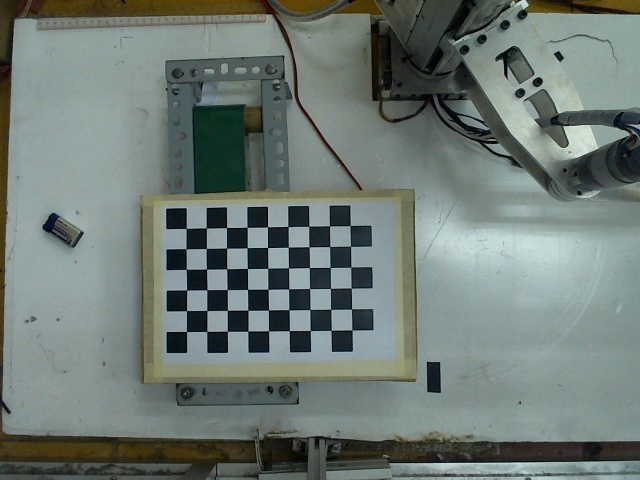
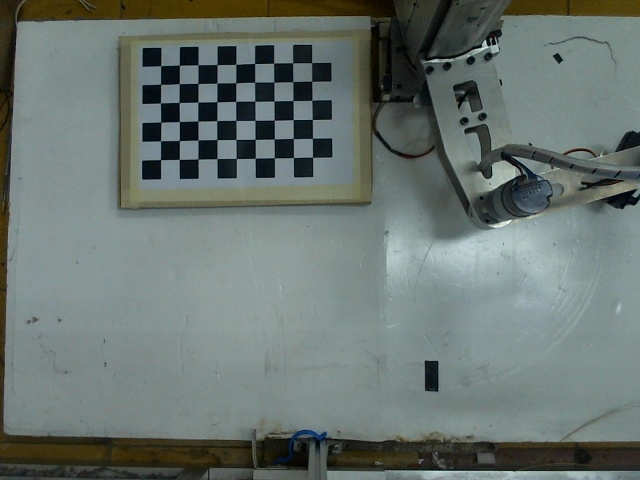
update

diff --git a/MainController.py b/MainController.py
@@ -58,12 +58,12 @@ class Ui_MainControllerUI(object):
         self.sumY = 0
         self.sumAngle = 0
         self.positionDictionary = {
-            '1': [15, 20, 90],
-            '2': [20, 20, 90],
-            '3': [25, 20, 90],
-            '4': [15, 30, 90],
-            '5': [20, 30, 90],
-            '6': [25, 30, 90],
+            '1': [25, 15, 90],
+            '2': [30, 15, 90],
+            '3': [35, 15, 90],
+            '4': [25, 10, 90],
+            '5': [30, 10, 90],
+            '6': [35, 10, 90],
         }
         self.positionDictionaryBC = {
             '1': [0, 40, 90, 1],
@@ -593,12 +593,12 @@ class Ui_MainControllerUI(object):
                 print(self.currentDestination)
                 # Nho sua 2 mode thanh 3 va 8
                 if self.mode == 0:
-                    mess = UARTMessage(nextX, nextY, nextAngle, 'r', 3)
+                    mess = UARTMessage(nextX, nextY, nextAngle, 'r', 0.7)
                     mess_bytes = bytes(mess, encoding='utf-8')
                 elif self.mode == 1:
                     mess = UARTMessage(nextX, nextY, nextAngle, 'r', nextPoints[3])
                     mess_bytes = bytes(mess, encoding='utf-8')
-                time.sleep(0.2)
+                time.sleep(0.4)
                 self.ser.write(mess_bytes)
                 
             elif command == 'r':
@@ -616,7 +616,7 @@ class Ui_MainControllerUI(object):
                 if self.mode == 1:
                     md = b"m10000000000000000000"
                     
-                    time.sleep(0.2)
+                    time.sleep(0.4)
                     self.ser.write(md)
                 else:
                     pass
@@ -716,6 +716,7 @@ class Ui_MainControllerUI(object):
                     # aveY = aveY * 10.0 + 1.8
                     
                     aveA = aveA * 10.0
+                print(aveA)
                 if aveY <= 25.0:
                     aveY += 0.4
                 else:
@@ -742,8 +743,6 @@ class Ui_MainControllerUI(object):
             self.updateTimer.setInterval(4)
 
         except Exception as e:
-            print(e)
-            
             frame = self.od.Get_Frame()
             height, width, channel = frame.shape
             bytesPerLine = 3 * width

diff --git a/Calibration.py b/Calibration.py
@@ -44,7 +44,7 @@ def GetCalibrationParams():
             img = cv2.drawChessboardCorners(img, (9,6), corners2,ret)
             ret, mtx, dist, rvecs, tvecs = cv2.calibrateCamera(objpoints, imgpoints, gray.shape[::-1],None,None)
 
-            np.savez('Calib_bc.npz', mtx=mtx, dist=dist, rvecs=rvecs, tvecs=tvecs, corners=corners2)
+            np.savez('Calib.npz', mtx=mtx, dist=dist, rvecs=rvecs, tvecs=tvecs, corners=corners2)
             cv2.imshow('img',img)
             cv2.waitKey(0)
             break
